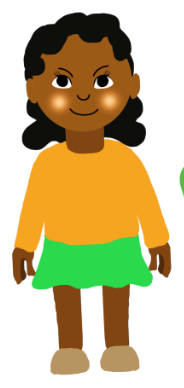
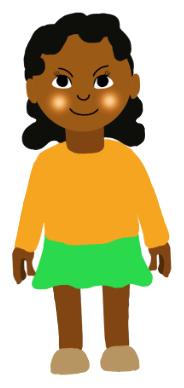
Add motorcycle information section and image changes

diff --git a/index.html b/index.html
@@ -102,6 +102,7 @@
 
             <div class="button-group">
                 <button id="characters-btn" class="btn btn-green">Meet Your Peach Wellness Friends!</button>
+                <button id="motorcycle-btn" class="btn btn-green">About Motorcycles &amp; PNCF</button>
                 <button id="replay-btn" class="btn">Play Again</button>
             </div>
         </section>
@@ -126,6 +127,35 @@
             <button id="characters-back-btn" class="btn">Back</button>
         </section>
 
+        <!-- SCREEN 9: MOTORCYCLES & PNCF -->
+        <section id="motorcycle-screen" class="screen">
+            <h2>Motorcycles &amp; Peaches &amp; Cream</h2>
+
+            <p class="motorcycle-about">
+                Motorcycles are an important part of the Peaches and Cream Foundation's
+                story. Through its Professional Women's Motorcycle Organization,
+                Peaches and Cream uses motorcycling to promote confidence, empowerment,
+                leadership, wellness, and community.
+            </p>
+
+            <p class="motorcycle-about">
+                Learn more about the organization's history, mission, and work by
+                visiting the Peaches and Cream Foundation website.
+            </p>
+
+            <a
+                href="https://peachesandcream.org/motorcycle-organization"
+                target="_blank"
+                rel="noopener noreferrer"
+                class="btn website-btn"
+            >
+                Learn More on Our Website
+            </a>
+
+            <button id="motorcycle-back-btn" class="btn">
+                Back
+            </button>
+        </section>
     </main>
 
     <script src="script.js"></script>

diff --git a/script.js b/script.js
@@ -96,7 +96,8 @@ const screens = {
     game: document.getElementById('game-screen'),
     celebration: document.getElementById('celebration-screen'),
     end: document.getElementById('end-screen'),
-    characters: document.getElementById('characters-screen')
+    characters: document.getElementById('characters-screen'),
+    motorcycle: document.getElementById('motorcycle-screen')
 };
 
 const characterGallery = document.getElementById('character-gallery');
@@ -233,6 +234,14 @@ document.getElementById('characters-back-btn').addEventListener('click', () => {
 
 document.getElementById('close-character-card').addEventListener('click', () => {
     characterCard.classList.add('hidden');
+});
+
+document.getElementById('motorcycle-btn').addEventListener('click', () => {
+    showScreen('motorcycle');
+});
+
+document.getElementById('motorcycle-back-btn').addEventListener('click', () => {
+    showScreen('end');
 });
 
 // Initialize Gallery on Load

diff --git a/style.css b/style.css
@@ -391,6 +391,24 @@ h2 {
     transform: scale(1.1);
 }
 
+
+/* ===== Motorcycle About Section ===== */
+
+.motorcycle-about {
+    max-width: 650px;
+    color: #444;
+    font-size: 1.1rem;
+    line-height: 1.7;
+    margin-bottom: 20px;
+}
+
+.website-btn {
+    text-decoration: none;
+    display: inline-block;
+    margin-bottom: 15px;
+}
+
+
 /* ===== Animations ===== */
 @keyframes float {
     0%, 100% { transform: translateY(0px); }
